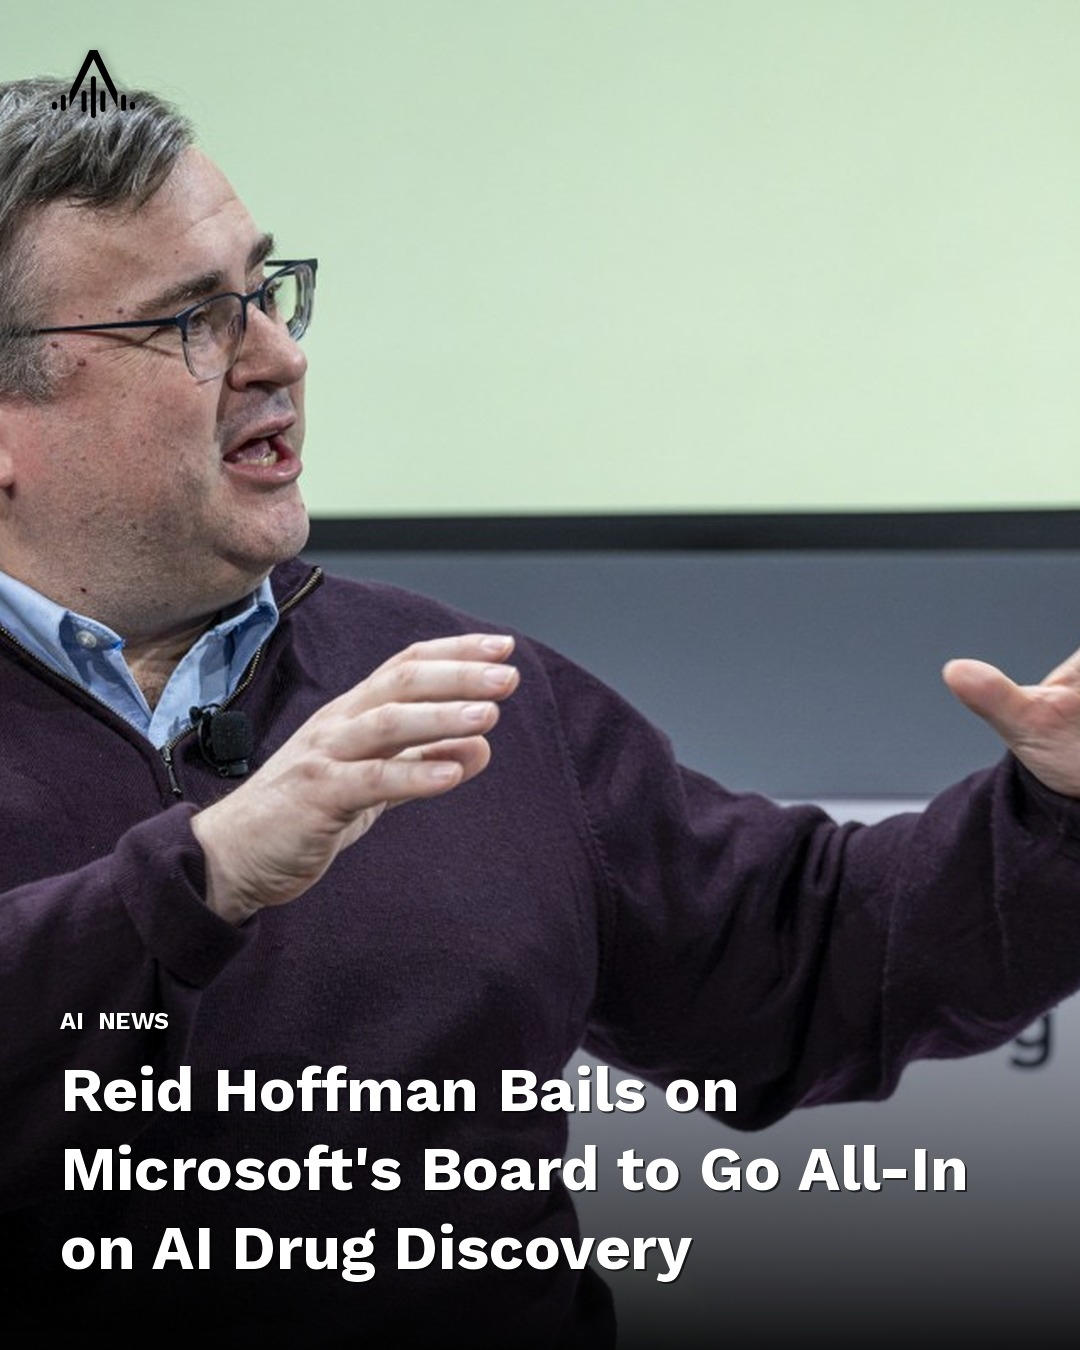
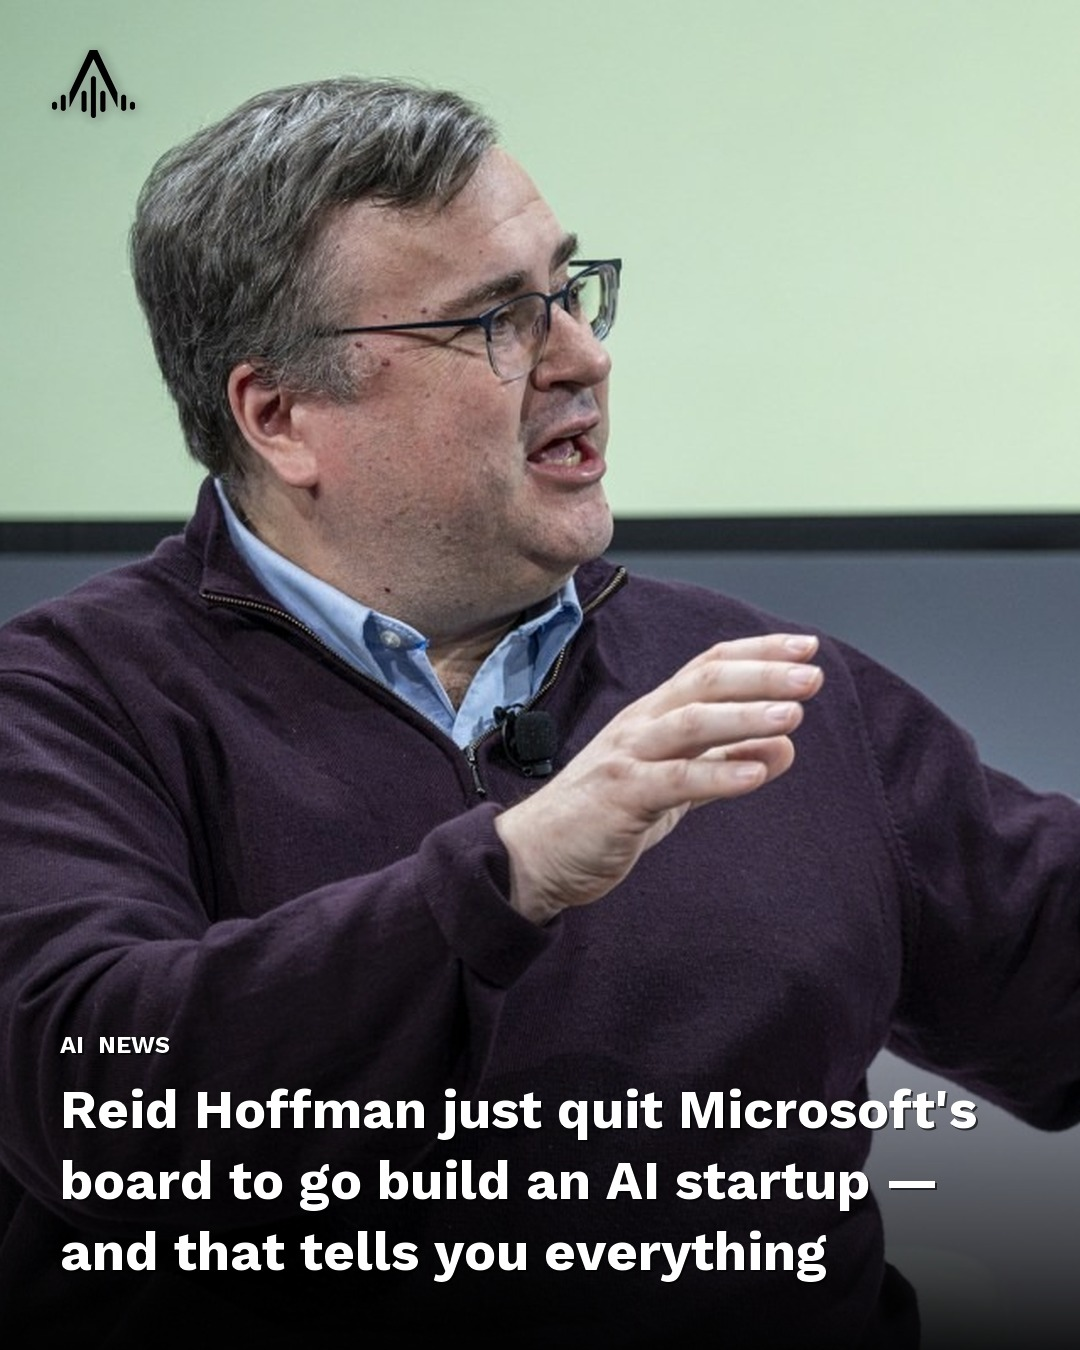
Touch up June 6 Instagram covers; add --title flag to swap_cover.py
- Refocused 01_trump-openai cover with manual crop + custom headline
- Refocused 03_reid-hoffman cover shifted left to frame full face
- Refocused 04_apple-siri cover zoomed in on hands and phone
- Added --title flag to swap_cover.py for headline overrides without editing caption.md

diff --git a/scripts/instagram/swap_cover.py b/scripts/instagram/swap_cover.py
@@ -43,6 +43,10 @@ def main() -> None:
     parser.add_argument("article_folder", help="e.g. 02_google-s-gemini-spark-...")
     parser.add_argument("source", help="alt-1, alt-2, or absolute path to image")
     parser.add_argument(
+        "--title",
+        help="Override the headline text on the cover.",
+    )
+    parser.add_argument(
         "--focus", metavar="X,Y",
         help="Manual crop center as percentages 0-100. Y defaults to 40 if omitted.",
     )
@@ -102,7 +106,7 @@ def main() -> None:
         print(f"✓ Using existing hero.jpg")
 
     # Regenerate cover
-    title = _title_from_caption(article_dir / "caption.md", article_folder)
+    title = args.title if args.title else _title_from_caption(article_dir / "caption.md", article_folder)
     photo = Image.open(hero_path).convert("RGB")
     cover_path = article_dir / "cover.jpg"
     logo_color, img_mode = generate_cover(photo, title, cover_path, focus=focus, fit_width=args.fit_width)
